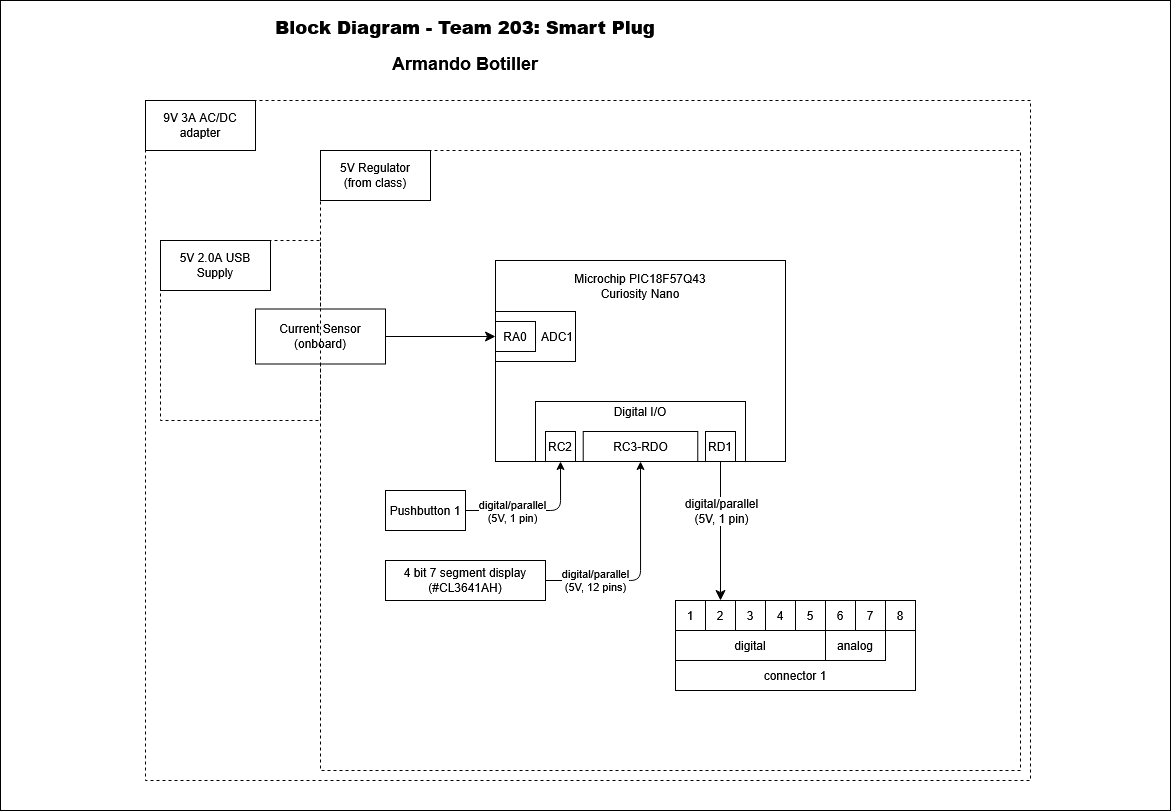
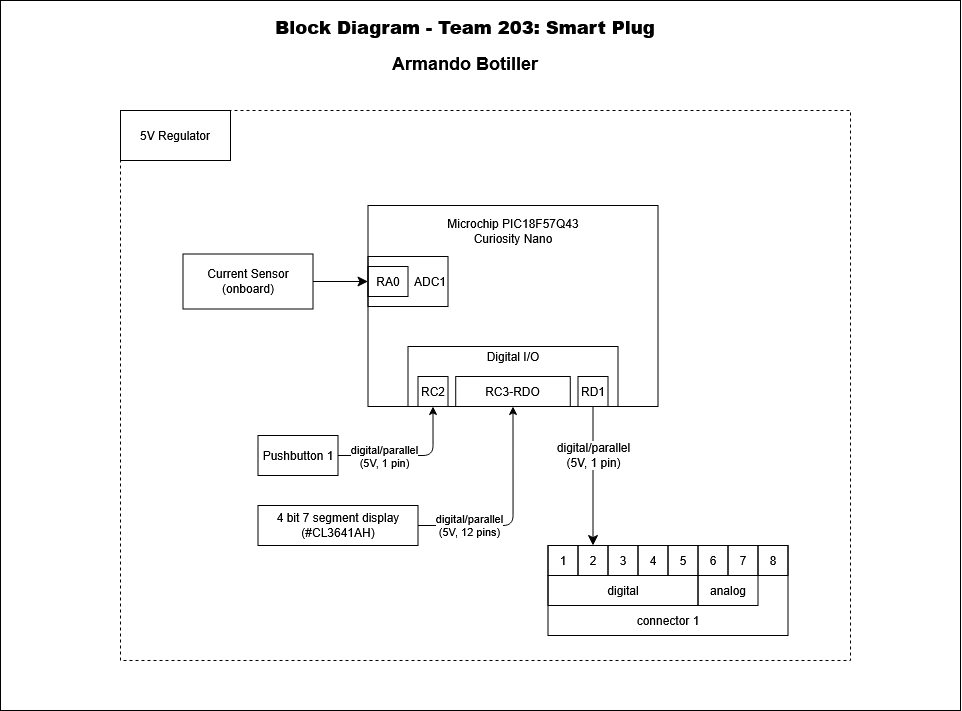
deploy: 6fb9be79f5373ae1456c6160bb0491ac32cd89a0

diff --git a/02-Component-Selection/Component-Selection/index.html b/02-Component-Selection/Component-Selection/index.html
@@ -858,15 +858,15 @@
 </thead>
 <tbody>
 <tr>
-<td>Meets voltage and current needs</td>
+<td>Meets voltage and current needs.</td>
 <td>Some reviewers claim it cannot handle 3A load as advertised.</td>
 </tr>
 <tr>
-<td>Includes female connector so barrel jack is not necessary</td>
+<td>Includes female connector so barrel jack is not necessary.</td>
 <td>No datasheet provided</td>
 </tr>
 <tr>
-<td>Shipped by amazon in a few days</td>
+<td>Shipps via amazon in a few days.</td>
 <td></td>
 </tr>
 </tbody>
@@ -888,15 +888,15 @@
 </thead>
 <tbody>
 <tr>
-<td>Interchangable input connector for use in other countries</td>
+<td>Interchangable input connector for use in other countries.</td>
 <td>14 week lead time</td>
 </tr>
 <tr>
-<td>Meets voltage and current needs</td>
+<td>Meets voltage and current needs.</td>
 <td></td>
 </tr>
 <tr>
-<td>Includes datasheet</td>
+<td>Includes datasheet.</td>
 <td></td>
 </tr>
 </tbody>
@@ -914,16 +914,145 @@
 
 | Pros                                                          | Cons                                                                                           |
 | ------------------------------------------------------------- | ---------------------------------------------------------------------------------------------- |
-| Very small package                                            | Significantly more cost effective to buy in bulk                        |
-| Senses current up to 31A                                      | How to analyze and filter signal is not as well understood. |
-| Operates on 5V                                                |
-| Through hole compatible pins pins                             |
+| Very small package.                                            | Significantly more cost effective to buy in bulk                        |
+| Senses current up to 31A.                                      | How to analyze and filter signal is not as well understood. |
+| Operates on 5V.                                                | Surface mount differs from rest of components
+| Provides electrical isolation between measuring device and device being measured.                                  |
 </code></pre>
 <ol>
-<li></li>
+<li>
+<p>ALLEGRO CURRENT SENSOR HE/OL 10A 8-SOIC (ACS724LLCTR-10AB-T)
+    <a class="glightbox" data-type="image" data-width="auto" data-height="auto" href="../current_sensor2.png" data-desc-position="bottom"><img alt="" src="../current_sensor2.png"></a></p>
+<ul>
+<li>$3.31/each</li>
+<li><a href="https://www.digikey.com/en/products/detail/allegro-microsystems/ACS711KEXLT-31AB-T/3868195?s=N4IgTCBcDaIIIGEDKB2AjGg0gUQBoBkAVAWgGY04AhYwkAXQF8g">link to product</a></li>
+</ul>
+<table>
+<thead>
+<tr>
+<th>Pros</th>
+<th>Cons</th>
+</tr>
+</thead>
+<tbody>
+<tr>
+<td>Much lower sensitivity.</td>
+<td>More expensive</td>
+</tr>
+<tr>
+<td>Operates on 5V.</td>
+<td>How to analyze and filter signal is not as well understood.</td>
+</tr>
+<tr>
+<td>Provides electrical isolation between measuring device and device being measured.</td>
+<td></td>
+</tr>
+<tr>
+<td>Higher accuracy</td>
+<td></td>
+</tr>
+</tbody>
+</table>
+</li>
+<li>
+<p>DIY current sensor by Utsav_25
+    <a class="glightbox" data-type="image" data-width="auto" data-height="auto" href="../current_sensor3.png" data-desc-position="bottom"><img alt="" src="../current_sensor3.png"></a></p>
+<ul>
+<li><a href="https://www.instructables.com/DIY-Current-Sensor-20/">link</a></li>
+</ul>
+<p>Schematic:<br>
+<a class="glightbox" data-type="image" data-width="auto" data-height="auto" href="../current_sensor3_schema.png" data-desc-position="bottom"><img alt="" src="../current_sensor3_schema.png"></a>
+| Pros                                               | Cons                                                                                           |
+| -------------------------------------------------- | ---------------------------------------------------------------------------------------------- |
+| No hall sensor required.                            | Unknown sensitivity or precision |
+| Non-inverting op-amp fulfills class requirements.  | Must build yourself |<br>
+| Circuit can easily be integrated into subsystem PCB. | Shunt resistor type current sensing generates heat and there is a slight loss of voltage. |
+|                                                    | Provides <strong>no</strong> electrical isolation between measuring device and device being measured. |</p>
+</li>
 </ol>
-<p><strong>Segment display</strong></p>
-<p><strong>Pushbutton</strong></p>
+<p><strong>Choice:</strong> DIY current sensor</p>
+<p><strong>Rationale:</strong> Circuit can be built with readily available parts besides the shunt resistor, mounted to the same PCB that the rest of the subsystem is connected to. Creating the circuit also allows the use of an op-amp to fulfill the project requirement for filtering signals. Lastly, making it provides an opportunity to learn how shunt type current sesnors function.</p>
+<p><strong>Display</strong>
+1. DFRobot 32 Digit 16x2 Transmissive LCD (DFR0555)
+    <a class="glightbox" data-type="image" data-width="auto" data-height="auto" href="../display1.jpg" data-desc-position="bottom"><img alt="" src="../display1.jpg"></a></p>
+<pre><code>* $9.90/each
+* [link to product](https://www.digikey.com/en/products/detail/dfrobot/DFR0555/9356340)
+
+| Pros                                                                                      | Cons                                                                                           |
+| ----------------------------------------------------------------------------------------- | ---------------------------------------------------------------------------------------------- |
+| More descriptive than segment display.                                                     | Daughter board does not fit within scope of project. |
+| I2C interface allows serial communication using minimal pins.                              | More expensive without significant added functionality for user requirements. |
+</code></pre>
+<ol>
+<li>
+<p>uxcell 3 bit 7 segment display (LD5631BG?)
+    <a class="glightbox" data-type="image" data-width="auto" data-height="auto" href="../display2.png" data-desc-position="bottom"><img alt="" src="../display2.png"></a></p>
+<ul>
+<li>$1.70/each</li>
+<li><a href="https://a.co/d/5Iz0CXA">link to product</a></li>
+</ul>
+<table>
+<thead>
+<tr>
+<th>Pros</th>
+<th>Cons</th>
+</tr>
+</thead>
+<tbody>
+<tr>
+<td>Descriptive enough for project.</td>
+<td>Significantly more pins required than I2C LCD interface.</td>
+</tr>
+<tr>
+<td>Less current draw than LCD.</td>
+<td>Not clear whether it is exactly the same as LD5631BG which has a datasheet.</td>
+</tr>
+<tr>
+<td>Simpler than LCD.</td>
+<td></td>
+</tr>
+<tr>
+<td>Through-hole mount interfaces well with our PCB design.</td>
+<td></td>
+</tr>
+<tr>
+<td>Ships from Amazon in a reasonable amount of time.</td>
+<td></td>
+</tr>
+</tbody>
+</table>
+</li>
+<li>
+<p>Dual Digit Alphanumeric 16 segment LED display (OPS-AD4021LR-GW)
+    <a class="glightbox" data-type="image" data-width="auto" data-height="auto" href="../display3.png" data-desc-position="bottom"><img alt="" src="../display3.png"></a></p>
+<ul>
+<li>$4.24/each</li>
+<li><a href="https://www.digikey.com/en/products/detail/opto-plus-led-corp/OPS-AD4021LR-GW/25956612">link to product</a></li>
+</ul>
+<table>
+<thead>
+<tr>
+<th>Pros</th>
+<th>Cons</th>
+</tr>
+</thead>
+<tbody>
+<tr>
+<td>More descriptive capability than 7 segment display</td>
+<td>Significantly more pins required.</td>
+</tr>
+<tr>
+<td>Less current draw than LCD</td>
+<td>More expensive than 7 segment version</td>
+</tr>
+<tr>
+<td>Simpler than LCD</td>
+<td>Must buy in bulk far exceeding project budget.</td>
+</tr>
+</tbody>
+</table>
+</li>
+</ol>
 
 
 

diff --git a/01-Block-Diagram/Block-Diagram/index.html b/01-Block-Diagram/Block-Diagram/index.html
@@ -846,8 +846,8 @@
 
 <h2 id="overview">Overview</h2>
 <p>The block diagram is a way to clearly lay out each team member's individual project, consisting of one or more analog sensors and/or actuators.</p>
-<p>The block diagram below describes the current sensing and power/energy usage display functionality of a USB charging port, which is part of a larger smart plug with multiple outlets and USB charging ports.</p>
-<p>In this block diagram there is one main power source, a 9V 3A AC/DC adapter that will charge the device being monitored as well as power the rest of the design via a 5V regulator.</p>
+<p>The diagram below describes the current sensing and power/energy usage display functionality of a USB charging port, which is one basic unit part of a larger smart plug with multiple outlets and USB charging ports.</p>
+<p>In this block diagram there is one main 5V voltage regulator that will provide 5V to the current sensing/display as well as the device being charged.</p>
 <p>This individual part intends to calculate power in watts and energy in kWh and display it to a 4 bit 7 segment display for monitoring. It also sends a digital signal to digital pin 2 on the ribbon connector so that another device can verify that the device is measuring current.</p>
 <h2 id="block-diagram-image">Block Diagram Image</h2>
 <p><a class="glightbox" data-type="image" data-width="auto" data-height="auto" href="../block_diagram_drawio.png" data-desc-position="bottom"><img alt="block_diagram" src="../block_diagram_drawio.png" title="Block Diagram"></a> <br>
